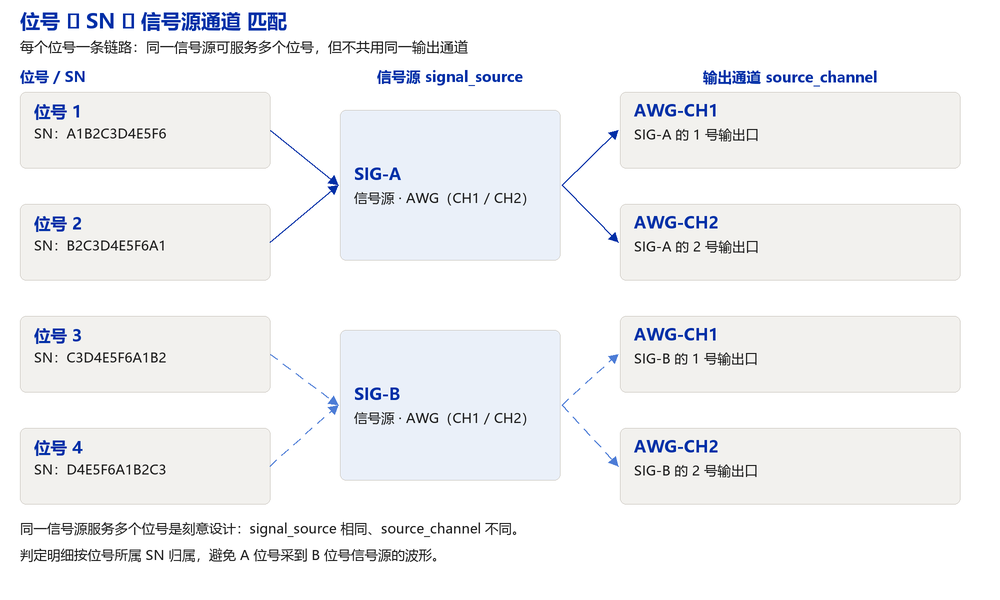
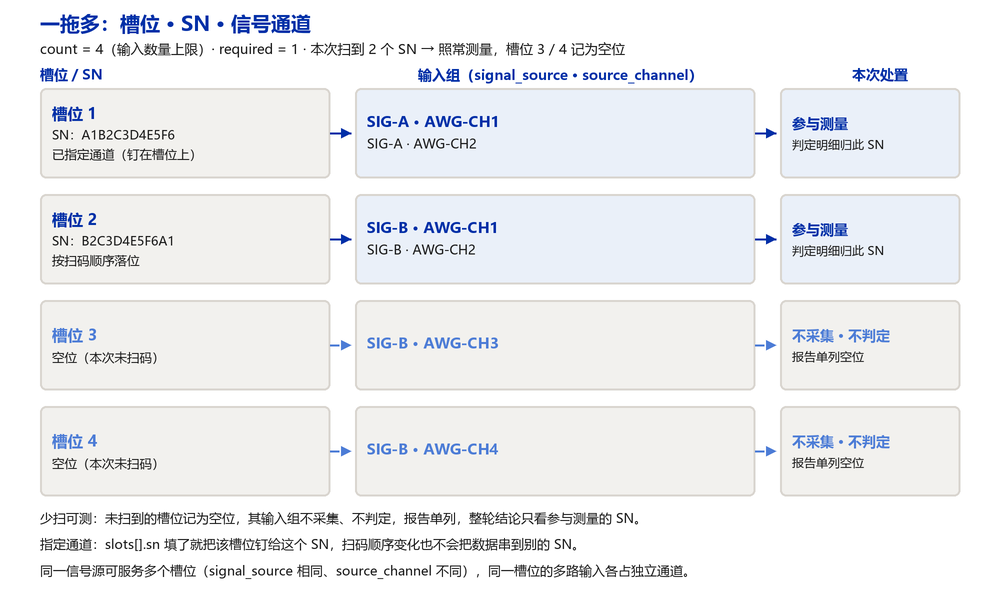
docs: adaptation 口径改为「一拖多」——数量上限 / 少扫可测 / SN 指定通道
- §6 由「PN 白名单与多路 SN 信号源匹配」重写为「一拖多测量与件号白名单」：
  channels.count（并行路数）→ multi_up.count（输入数量上限，= 槽位数 = 输入组数）
  新增 required / allow_partial：少扫一两个 SN 照常测量，未扫槽位记为空位
  slots[].sn 显式指定某个 SN 走哪组信号通道；slots[].inputs[] 表示每个 SN 的一组输入
- 执行流程 ③ 位号绑定 → 槽位绑定；per_sn 改为逐已扫槽位展开（空位跳过）
- 图 docs/assets/tps-slot-source-match.png 重画为「一拖多：槽位 · SN · 信号通道（含空位）」
- 全文「位号」统一为「槽位」

diff --git a/docs/uut.json-文件结构与设计.html b/docs/uut.json-文件结构与设计.html
@@ -113,7 +113,7 @@
     <a href="#s3"><b>03</b>使用方法：Runner 与 conftest</a>
     <a href="#s4"><b>04</b>执行流程</a>
     <a href="#s5"><b>05</b>metadata · 版本数据</a>
-    <a href="#s6"><b>06</b>adaptation · PN 白名单与信号源匹配</a>
+    <a href="#s6"><b>06</b>adaptation · 一拖多与件号白名单</a>
     <a href="#s7"><b>07</b>device · 设备信息</a>
     <a href="#s8"><b>08</b>threshold · 阈值与判定算法</a>
     <a href="#s9"><b>09</b>cmd_suit · 顺序 · 人工 · 单步</a>
@@ -131,7 +131,7 @@
         <thead><tr><th style="width:130px">约束</th><th>含义</th></tr></thead>
         <tbody>
           <tr><td>清单只声明，不实现</td><td>清单内不出现执行代码、连接参数、调用实参；测试动作全部由 <code>testcase/</code> 中的 Python 函数实现</td></tr>
-          <tr><td>单一事实源</td><td>用例顺序只写在 <code>cmd_suit</code>，判定算法与阈值只写在 <code>threshold</code>，设备引用只写在 <code>device</code>，被测对象适配范围只写在 <code>adaptation</code></td></tr>
+          <tr><td>单一事实源</td><td>用例顺序只写在 <code>cmd_suit</code>，判定算法与阈值只写在 <code>threshold</code>，设备引用只写在 <code>device</code>，一拖多的适配范围与通道归属只写在 <code>adaptation</code></td></tr>
           <tr><td>引用而非复制</td><td>清单只写设备别名与注册库编号，IP、端口、串口、波特率由执行器在运行时从注册库查询</td></tr>
           <tr><td>判定集中</td><td>通过/不通过只由用例调用判定接口产生，清单不承载判定表达式</td></tr>
         </tbody>
@@ -204,7 +204,7 @@
             <tbody>
               <tr><td class="num">0</td><td>在 workspace 下建临时副本 <code>run_&lt;task_id&gt;/</code>，把 TPS 内容整体复制进去</td><td>—</td></tr>
               <tr><td class="num">1</td><td>在副本内载入 <code>tps.json</code>，校验结构：schema、必填项、引用完整性</td><td>全量</td></tr>
-              <tr><td class="num">2</td><td>启动门禁：状态是否允许生产、件号是否在白名单、SN 形态是否匹配</td><td><code>metadata.status</code> / <code>adaptation</code></td></tr>
+              <tr><td class="num">2</td><td>启动门禁与槽位绑定：状态是否允许生产、件号是否在白名单、SN 形态是否匹配；扫到的 SN 数与槽位绑定（少扫按空位处理）</td><td><code>metadata.status</code> / <code>adaptation</code></td></tr>
               <tr><td class="num">3</td><td>解析设备与阈值：别名 → 注册库 → 连接参数；阈值键 → 算法与参数</td><td><code>device</code> / <code>threshold</code></td></tr>
               <tr><td class="num">4</td><td>按三段顺序展开执行序列，渲染执行入口与环境描述</td><td><code>cmd_suit</code> / <code>setup</code> / <code>teardown</code></td></tr>
               <tr><td class="num">5</td><td>逐条用例以独立 pytest 进程执行，收集判定明细；<code>manual</code> 条目弹窗等操作员选 next / abort</td><td>条目 <code>type</code> / <code>resource</code> / <code>parallel</code> / <code>exec.timeout_s</code></td></tr>
@@ -238,11 +238,11 @@
       <p class="sub">五个键按固定顺序被消费，形成从启动到报告的一条流程</p>
       <div class="flow">
         <div><span class="st">01</span><span class="nm">载入与校验</span><span class="ac">结构校验与引用完整性检查；不通过即中止</span></div>
-        <div><span class="st">02</span><span class="nm">启动门禁</span><span class="ac">状态是否允许生产、件号是否在白名单、SN 形态是否匹配；件号未命中白名单或 SN 形态不符时直接抛异常，流程中止</span></div>
-        <div><span class="st">03</span><span class="nm">位号绑定</span><span class="ac">每个位号的 SN 绑定信号源与物理通道 → 通道映射表，后续数据按此归属</span></div>
+        <div><span class="st">02</span><span class="nm">启动门禁</span><span class="ac">状态是否允许生产、件号是否在白名单、SN 形态是否匹配、扫到的 SN 数是否在 <code>count</code> 上限内且达到 <code>required</code>；件号未命中白名单、SN 形态不符或路数不足时直接抛异常，流程中止</span></div>
+        <div><span class="st">03</span><span class="nm">槽位绑定</span><span class="ac">扫到的 SN 与槽位绑定，确定每路输入的信号源与通道；未扫到的槽位记为空位 → 槽位 → 通道映射表 + 空位清单，后续数据按此归属</span></div>
         <div><span class="st">04</span><span class="nm">设备解析</span><span class="ac">别名 → 注册库 → 连接参数 → 设备实例，形成 <code>ate_devices</code> 夹具</span></div>
         <div><span class="st">05</span><span class="nm">阈值装载</span><span class="ac">按 <code>mode</code> 装载判定算法与参数，形成 <code>ate_thresholds</code> 夹具</span></div>
-        <div><span class="st">06</span><span class="nm">序列展开</span><span class="ac">三段按书写顺序展开；<code>per_sn</code> 条目逐位号展开，<code>manual</code> 条目插入等待点（next / abort）</span></div>
+        <div><span class="st">06</span><span class="nm">序列展开</span><span class="ac">三段按书写顺序展开；<code>per_sn</code> 条目在每个已扫槽位各展开一次（空位不展开），<code>manual</code> 条目插入等待点（next / abort）</span></div>
         <div><span class="st">07</span><span class="nm">执行与判定</span><span class="ac">每条用例独立进程执行，判定按算法取样本算值 → 判定明细、<code>run_result.json</code></span></div>
         <div><span class="st">08</span><span class="nm">收尾与报告</span><span class="ac">安全收尾必跑，汇总结果 → HTML 报告与运行记录</span></div>
       </div>
@@ -265,9 +265,11 @@
       </table>
     </section>
 
-    <section id="s6">
-      <h2>06 · adaptation · PN 白名单与多路 SN 信号源匹配</h2>
-      <p class="sub">这台 UUT 能不能用这份基线测；多路 SN 并行时，每个 SN 采到的数据属于哪个信号源</p>
+        <section id="s6">
+      <h2>06 · adaptation · 一拖多测量与件号白名单</h2>
+      <p class="sub">这份基线适配哪些件号；一次同时测几个 SN；某个 SN 的信号走哪几路通道</p>
+      <p><code>adaptation</code> 的存在前提是<b>一拖多</b>：一次装夹多个 SN（上线为多个），同一条测试序列在多个槽位上并行测量，
+        <b>每个 SN 对应一组输入</b>。所以这一键既声明"能不能测"，也声明"同时测几路、哪路归哪个 SN"。</p>
       <h3>6.1 PN 白名单机制</h3>
       <p>件号从 UUT 名称中按正则提取，再与白名单逐项比对；不在白名单内<b>直接抛异常，拒绝执行</b>。白名单是
         "这份基线适配哪些件号"的唯一声明处。</p>
@@ -284,30 +286,64 @@
           <tr><td class="k">part_number.whitelist_file</td><td>可选：白名单文件相对路径（如 <code>resource/pn_whitelist.json</code>），用于件号数量大、需独立维护的场景；与内联白名单合并生效</td></tr>
         </tbody>
       </table>
-      <h3>6.2 多路 SN 匹配信号源</h3>
-      <p><code>channels</code> 声明并行路数与"位号 → 信号源"的对应关系。几个 SN 同时测试时，每个位号的采集通道各接在一个信号源上；
-        这层关系不显式声明，就会出现 <b>数据串位</b>——A 位号采到 B 位号信号源的波形，报告把 A 判成合格或不合格。</p>
+      <h3>6.2 一拖多：数量上限、少扫可测与通道指定</h3>
+      <p><code>multi_up</code> 管一次运行覆盖几个 SN。<code>count</code> 是<b>输入数量上限</b>——工位一次能同时接几个 SN
+        （等于槽位数、等于输入组数），不是"必须扫满"的要求。</p>
       <table>
-        <thead><tr><th style="width:200px">字段</th><th>作用</th></tr></thead>
+        <thead><tr><th style="width:230px">字段</th><th>作用</th></tr></thead>
         <tbody>
-          <tr><td class="k">count</td><td>并行路数</td></tr>
-          <tr><td class="k">slots[].slot</td><td>位号（1..count），对应台架上第几个 SN 位</td></tr>
-          <tr><td class="k">slots[].signal_source</td><td>该位号 SN 采集数据所对应的信号源标识；判定与记录据此把数据归到正确的 SN</td></tr>
-          <tr><td class="k">slots[].source_channel</td><td>信号源上的物理输出通道，保证位号之间不落到同一个输出口</td></tr>
-          <tr><td class="k">slots[].fixture</td><td>可选：该位号使用的夹具编号</td></tr>
+          <tr><td class="k">multi_up.count</td><td>输入数量上限：一次最多同时测几个 SN（= 槽位数 = 输入组数）</td></tr>
+          <tr><td class="k">multi_up.required</td><td>最少要扫到几个 SN 才允许开测；缺省 1（少扫也能测）</td></tr>
+          <tr><td class="k">multi_up.allow_partial</td><td>是否允许少扫，缺省 <code>true</code>；写 <code>false</code> 等价于把 <code>required</code> 写成 <code>count</code>，即要求满员</td></tr>
+          <tr><td class="k">multi_up.slots[].slot</td><td>槽位编号（1..count），对应台架上第几个 SN 位</td></tr>
+          <tr><td class="k">multi_up.slots[].sn</td><td>可选：把该槽位钉给指定 SN——这就是"指定某个 SN 对应的信号通道"；留空则按扫码顺序落到空槽位</td></tr>
+          <tr><td class="k">multi_up.slots[].inputs[]</td><td>该 SN 对应的一组输入，每项 <code>{ signal_source, source_channel }</code>；同一信号源可服务多个槽位，通道不共用</td></tr>
+          <tr><td class="k">multi_up.slots[].fixture</td><td>可选：该槽位使用的夹具编号</td></tr>
         </tbody>
       </table>
+      <p>"上线为多个、但少扫一两个 SN"是正常工况，处置口径如下：</p>
+      <table>
+        <thead><tr><th style="width:250px">情形</th><th>行为</th></tr></thead>
+        <tbody>
+          <tr><td>扫到 <code>count</code> 个 SN</td><td>全部槽位参与测量</td></tr>
+          <tr><td>扫到 k 个，<code>required</code> ≤ k &lt; <code>count</code></td><td><b>照常测量</b>：未扫到的槽位记为空位，其输入组不采集、不判定，报告单列；整轮结论只看参与测量的 SN</td></tr>
+          <tr><td>扫到 k 个，k &lt; <code>required</code></td><td>抛异常，拒绝执行（没达到最少路数）</td></tr>
+          <tr><td>SN 已在 <code>slots[].sn</code> 里钉过槽位</td><td>精确匹配该槽位：扫码顺序变化也不会把数据串到别的 SN</td></tr>
+          <tr><td>SN 没钉槽位</td><td>按扫码顺序落到空槽位</td></tr>
+        </tbody>
+      </table>
+      <p class="note">空位必须显式留空，不能"顺位补一个 SN"：数据归属靠槽位 → 通道的映射，补位就会让 A 的波形进到 B 的判定里。</p>
       <div class="slots">
-        <div class="slot"><div class="pos">位号 1</div><div class="src">SIG-A · AWG-CH1</div></div>
-        <div class="slot"><div class="pos">位号 2</div><div class="src">SIG-A · AWG-CH2</div></div>
-        <div class="slot"><div class="pos">位号 3</div><div class="src">SIG-B · AWG-CH1</div></div>
-        <div class="slot"><div class="pos">位号 4</div><div class="src">SIG-B · AWG-CH2</div></div>
+        <div class="slot"><div class="pos">槽位 1 · SN 已指定</div><div class="src">SIG-A · AWG-CH1 / CH2</div></div>
+        <div class="slot"><div class="pos">槽位 2 · 按扫码落位</div><div class="src">SIG-B · AWG-CH1 / CH2</div></div>
+        <div class="slot"><div class="pos">槽位 3 · 空位（未扫码）</div><div class="src">SIG-B · AWG-CH3</div></div>
+        <div class="slot"><div class="pos">槽位 4 · 空位（未扫码）</div><div class="src">SIG-B · AWG-CH4</div></div>
       </div>
+      <pre>{
+  "multi_up": {
+    "count": 4,            <em>// 输入数量上限：一次最多同时测 4 个 SN</em>
+    "required": 1,       <em>// 至少扫到 1 个就允许开测</em>
+    "allow_partial": true,
+    "slots": [
+      { "slot": 1, "sn": "A1B2C3D4E5F6", "fixture": "FX-01",
+        "inputs": [ { "signal_source": "SIG-A", "source_channel": "AWG-CH1" },
+                    { "signal_source": "SIG-A", "source_channel": "AWG-CH2" } ] },
+      { "slot": 2, "fixture": "FX-02",
+        "inputs": [ { "signal_source": "SIG-B", "source_channel": "AWG-CH1" },
+                    { "signal_source": "SIG-B", "source_channel": "AWG-CH2" } ] },
+      { "slot": 3, "fixture": "FX-03",
+        "inputs": [ { "signal_source": "SIG-B", "source_channel": "AWG-CH3" } ] },
+      { "slot": 4, "fixture": "FX-04",
+        "inputs": [ { "signal_source": "SIG-B", "source_channel": "AWG-CH4" } ] }
+    ]
+  }
+}/pre>
+      <p>槽位 1 把 SN 钉死了，槽位 2 留空等扫码结果落进来；槽位 3、4 本次没扫到，记为空位——通道已经声明好，只是不采集。</p>
       <figure>
-        <img src="assets/tps-slot-source-match.png" alt="位号 ↔ SN ↔ 信号源通道 匹配连线：4 个位号分属 SIG-A / SIG-B 两个信号源，各占一个独立输出口">
-        <figcaption>位号 ↔ SN ↔ 信号源通道 匹配：4 个位号分属两个信号源，每个位号占一个独立输出口，判定明细按 SN 归属。</figcaption>
+        <img src="assets/tps-slot-source-match.png" alt="一拖多：槽位 · SN · 信号通道，含空位；槽位 1、2 扫到 SN 参与测量，槽位 3、4 为空位不采集不判定">
+        <figcaption>一拖多：4 个槽位各有自己的一组输入通道（<code>count = 4</code>）；本次扫到 2 个 SN，槽位 3、4 记为空位——
+          不采集、不判定，报告单列，整轮结论只看参与测量的 SN。</figcaption>
       </figure>
-      <p class="note">同一信号源被多个位号共用是刻意设计：<code>signal_source</code> 相同、<code>source_channel</code> 不同，一眼可辨。</p>
       <h3>6.3 SN 形态</h3>
       <table>
         <thead><tr><th style="width:200px">字段</th><th>作用</th></tr></thead>
@@ -375,7 +411,7 @@
         <thead><tr><th style="width:126px">段</th><th>作用</th><th style="width:270px">执行方式</th></tr></thead>
         <tbody>
           <tr><td class="k">setup</td><td>环境初始化：上电、复位、装夹</td><td>按数组顺序逐条执行</td></tr>
-          <tr><td class="k">cmd_suit</td><td>测试套：全部测试用例</td><td>按数组顺序逐条执行；<code>parallel=per_sn</code> 的条目逐位号各跑一遍；<code>type: manual</code> 条目插入人工确认，<code>step: true</code> 条目跑完暂停等放行</td></tr>
+          <tr><td class="k">cmd_suit</td><td>测试套：全部测试用例</td><td>按数组顺序逐条执行；<code>parallel=per_sn</code> 的条目逐槽位各跑一遍；<code>type: manual</code> 条目插入人工确认，<code>step: true</code> 条目跑完暂停等放行</td></tr>
           <tr><td class="k">teardown</td><td>环境终止：断电、卸载、归档</td><td>收尾段，前面的段跑完必定执行</td></tr>
         </tbody>
       </table>
@@ -447,11 +483,11 @@
         <tbody>
           <tr><td>顺序</td><td>条目按数组顺序执行，上一条结束才开始下一条；失败记录后继续跑后续条目，整轮跑完再汇总</td></tr>
           <tr><td><code>serial</code>（默认）</td><td>这条用例跑一次</td></tr>
-          <tr><td><code>per_sn</code></td><td>每个位号各跑一次，数据按 <code>adaptation.channels</code> 的绑定归属到对应 SN</td></tr>
-          <tr><td><code>shared</code></td><td>所有位号共用一次执行（如整机总上电、总功耗）</td></tr>
+          <tr><td><code>per_sn</code></td><td>每个已扫槽位各跑一次（空位不跑），数据按 <code>adaptation.multi_up.slots</code> 的输入组归属到对应 SN</td></tr>
+          <tr><td><code>shared</code></td><td>所有槽位共用一次执行（如整机总上电、总功耗）</td></tr>
         </tbody>
       </table>
-      <p class="note"><code>parallel</code> 只决定这条用例在几个位号上跑，不改变先后顺序。</p>
+      <p class="note"><code>parallel</code> 只决定这条用例在几个槽位上跑，不改变先后顺序。</p>
       <h3>9.5 用例条目字段</h3>
       <table>
         <thead><tr><th style="width:190px">字段</th><th style="width:150px">必需</th><th>作用</th></tr></thead>
@@ -470,7 +506,7 @@
         <thead><tr><th style="width:250px">字段</th><th style="width:200px">为何不进清单</th><th>它的去处</th></tr></thead>
         <tbody>
           <tr><td class="k">params</td><td>调用实参不是基线数据</td><td>用例以自身默认值为准，调用形如 <code>fn(ctx)</code></td></tr>
-          <tr><td class="k">resources</td><td>资源信息不属于基线</td><td>位号与信号源的关系由 <code>adaptation.channels</code> 表达</td></tr>
+          <tr><td class="k">resources</td><td>资源信息不属于基线</td><td>槽位与信号源的关系由 <code>adaptation.multi_up.slots</code> 表达</td></tr>
           <tr><td class="k">name / description / no / tags</td><td>属用例自身属性</td><td>用例名与描述取自代码（<b>当前 <code>validate_v2</code> 仍要求 <code>name</code></b>，迁移中）</td></tr>
           <tr><td class="k">checks / optional</td><td>属判定逻辑</td><td>判定由用例调用判定接口完成</td></tr>
           <tr><td class="k">on_fail / retry / skip_when / always_run / depends_on</td><td>属编排策略，清单只保留"顺序"</td><td>跑完一条再跑下一条、失败记录后继续、收尾段必定执行；中止由人工确认条目的 <code>abort</code> 或单步暂停点的中止表达</td></tr>
@@ -494,9 +530,19 @@
                      "whitelist": ["SPM1234567", "SPM1234568"],
                      "whitelist_file": "resource/pn_whitelist.json" },
     "sn": { "regex": "[A-Z0-9]{12}", "note": "12 位英数" },
-    "channels": { "count": 2, "slots": [
-      { "slot": 1, "signal_source": "SIG-A", "source_channel": "AWG-CH1", "fixture": "FX-01" },
-      { "slot": 2, "signal_source": "SIG-B", "source_channel": "AWG-CH1", "fixture": "FX-02" } ] }
+    "multi_up": {
+      "count": 2,            <em>// 输入数量上限 = 槽位数：一次最多同时测 2 个 SN</em>
+      "required": 1,         <em>// 至少扫到 1 个就允许开测（少扫一两个 SN 照常测）</em>
+      "allow_partial": true,
+      "slots": [
+        { "slot": 1, "sn": "A1B2C3D4E5F6", "fixture": "FX-01",
+          "inputs": [ { "signal_source": "SIG-A", "source_channel": "AWG-CH1" },
+                      { "signal_source": "SIG-A", "source_channel": "AWG-CH2" } ] },
+        { "slot": 2, "fixture": "FX-02",
+          "inputs": [ { "signal_source": "SIG-B", "source_channel": "AWG-CH1" },
+                      { "signal_source": "SIG-B", "source_channel": "AWG-CH2" } ] }
+      ]
+    }
   },
 
   "device": {
@@ -536,7 +582,7 @@
       <table>
         <thead><tr><th style="width:210px">关注点</th><th>结论</th></tr></thead>
         <tbody>
-          <tr><td>五键边界</td><td><code>metadata</code> 只管版本、<code>adaptation</code> 只管能不能测与数据归属、<code>device</code> 只管设备引用、<code>threshold</code> 只管判定算法、<code>cmd_suit</code> 只管编排</td></tr>
+          <tr><td>五键边界</td><td><code>metadata</code> 只管版本、<code>adaptation</code> 只管能不能测、一次同时测几个 SN 与数据归属、<code>device</code> 只管设备引用、<code>threshold</code> 只管判定算法、<code>cmd_suit</code> 只管编排</td></tr>
           <tr><td>换台架</td><td>只改 <code>device</code> 引用或注册库记录，清单结构不动</td></tr>
           <tr><td>改判据</td><td>只改 <code>threshold</code>，用例实现不动</td></tr>
           <tr><td>加用例</td><td>只加 <code>testcase/</code> 模块与 <code>cmd_suit</code> 条目</td></tr>
